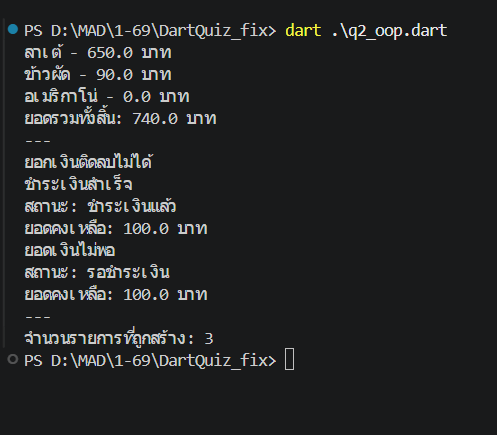
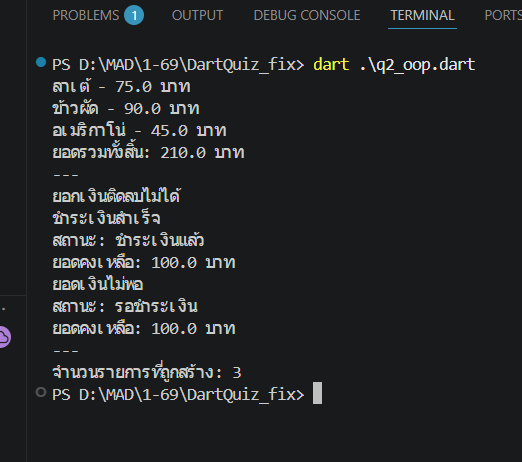
fixed

diff --git a/q2_oop.dart b/q2_oop.dart
@@ -22,7 +22,7 @@ class Drink extends MenuItem{
 
   @override
   double price() {
-    return baseprice * (10*toppings);
+    return baseprice + (10*toppings);
   }
 }
 